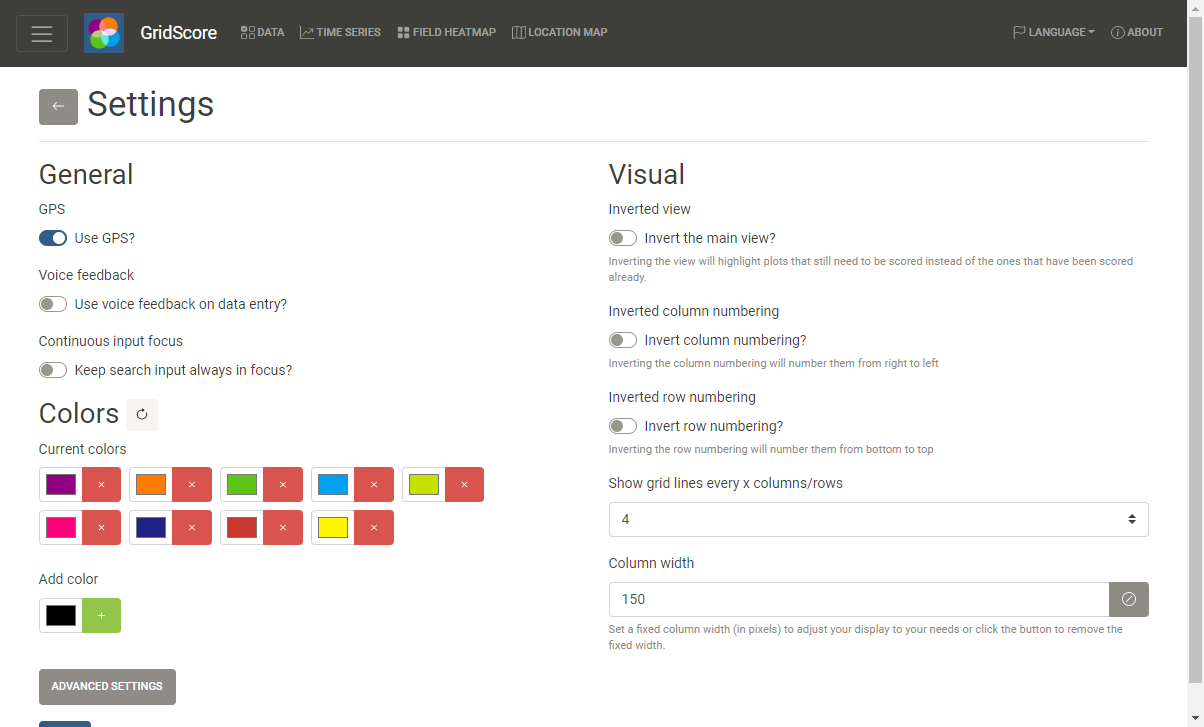
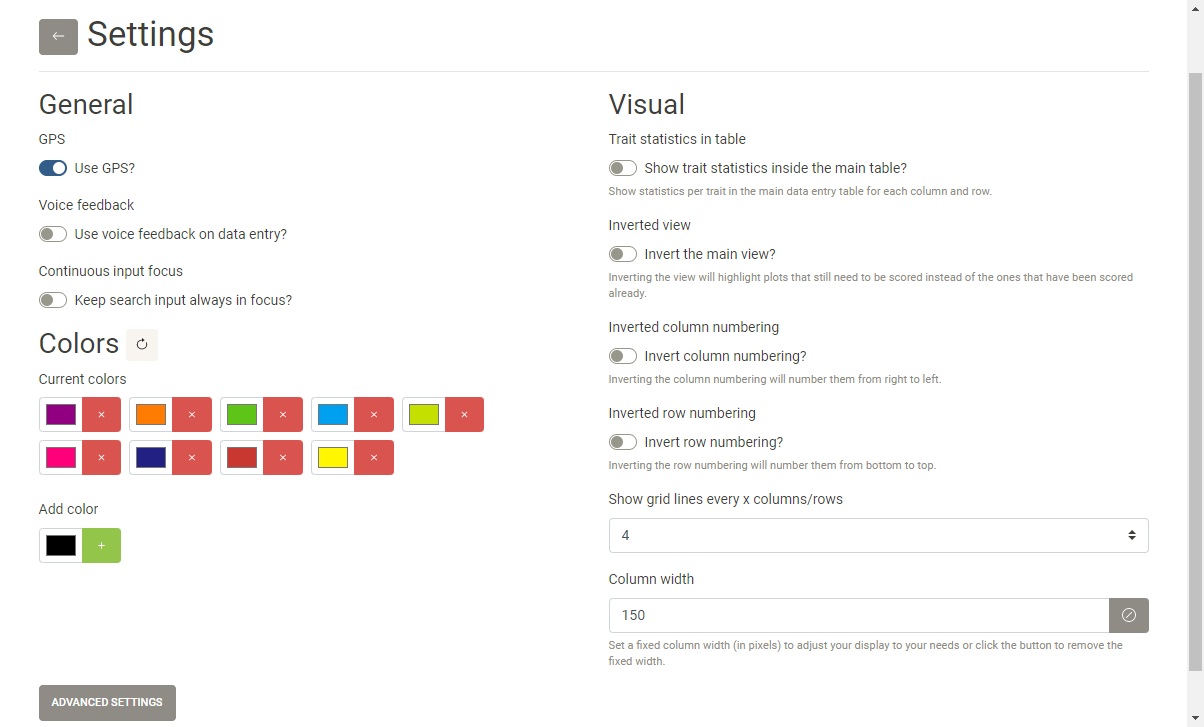
- ADD: Added missing files in last commit.

diff --git a/src/components/tables/GridTableIndividualCell.vue b/src/components/tables/GridTableIndividualCell.vue
@@ -18,7 +18,7 @@
               <span v-else>{{ column }}</span>
             </div>
 
-            <div v-if="traitStats" class="d-flex align-items-end" :style="{ height: `${traitStatsHeight}px` }">
+            <div v-if="traitStats" class="trait-stats-col d-flex align-items-end" :style="{ height: `${traitStatsHeight}px` }">
               <div v-for="(trait, traitIndex) in storeTraits" :key="`trait-stats-col-${column}-${traitIndex}`" class="w-100" :style="{ height: `${traitStats[trait.name].cols[column - 1].count / traitStats[trait.name].cols[column - 1].total * traitStatsHeight}px`, backgroundColor: storeTraitColors[traitIndex % storeTraitColors.length] }" />
             </div>
           </th>
@@ -34,7 +34,7 @@
               <span v-else>{{ rowIndex }}</span>
             </div>
             <div class="d-inline-block h-100 position-absolute" :style="{ right: 0, top: 0, bottom: 0 }" v-if="traitStats">
-              <div v-if="traitStats" class="d-flex flex-column align-items-end h-100" :style="{ width: `${traitStatsHeight}px` }">
+              <div v-if="traitStats" class="trait-stats-row d-flex flex-column align-items-end h-100" :style="{ width: `${traitStatsHeight}px` }">
                 <div v-for="(trait, traitIndex) in storeTraits" :key="`trait-stats-col-${rowIndex}-${traitIndex}`" class="h-100" :style="{ width: `${traitStats[trait.name].rows[rowIndex - 1].count / traitStats[trait.name].rows[rowIndex - 1].total * traitStatsHeight}px`, backgroundColor: storeTraitColors[traitIndex % storeTraitColors.length] }" />
               </div>
             </div>
@@ -245,6 +245,12 @@ export default {
   white-space: nowrap;
   overflow: hidden;
   text-overflow: ellipsis;
+}
+.grid-table .trait-stats-col > div {
+  margin: 0 1px;
+}
+.grid-table .trait-stats-row > div {
+  margin: 1px 0;
 }
 
 .table-fixed-header          { overflow-y: auto; max-height: 100vh; margin-bottom: 0; }

diff --git a/src/views/Settings.vue b/src/views/Settings.vue
@@ -38,8 +38,8 @@
         </b-col>
         <b-col cols=12 md=6>
           <h2>{{ $t('pageSettingsVisualTitle') }}</h2>
-          <b-form-group :label="$t('formLabelSettingsShowStatsInTable')" label-for="invert-view" :description="$t('formDescriptionSettingsShowStatsInTable')">
-            <b-form-checkbox v-model="tempShowStatsInTable" switch id="invert-view">{{ $t('buttonToggleShowStatsInTable') }}</b-form-checkbox>
+          <b-form-group :label="$t('formLabelSettingsShowStatsInTable')" label-for="stats-in-table" :description="$t('formDescriptionSettingsShowStatsInTable')">
+            <b-form-checkbox v-model="tempShowStatsInTable" switch id="stats-in-table">{{ $t('buttonToggleShowStatsInTable') }}</b-form-checkbox>
           </b-form-group>
           <b-form-group :label="$t('formLabelSettingsInvertView')" label-for="invert-view" :description="$t('formDescriptionSettingsInvertView')">
             <b-form-checkbox v-model="tempInvertView" switch id="invert-view">{{ $t('buttonToggleInvertView') }}</b-form-checkbox>

diff --git a/src/views/About.vue b/src/views/About.vue
@@ -3,7 +3,7 @@
     <b-container class="py-3">
       <div class="text-center">
         <img src="img/gridscore2.svg" fluid  class="about-header-logo" alt="GridScore logo">
-        <h1 class="py-3">{{ $t('appTitle') }} <small>v1.3.0</small></h1>
+        <h1 class="py-3">{{ $t('appTitle') }} <small>v1.4.0</small></h1>
       </div>
       <p>{{ $t('pageAboutParagraphOne') }}</p>
       <p v-html="$t('pageAboutParagraphTwo')" />
